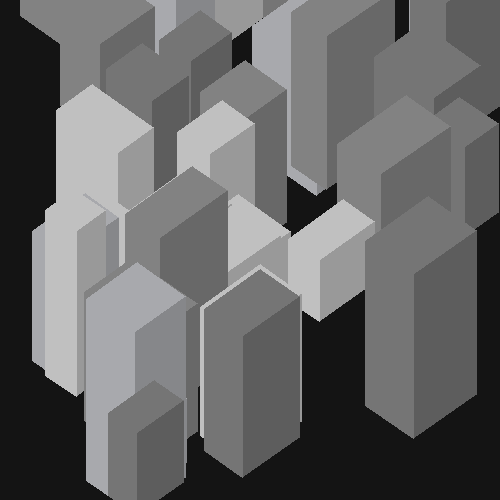
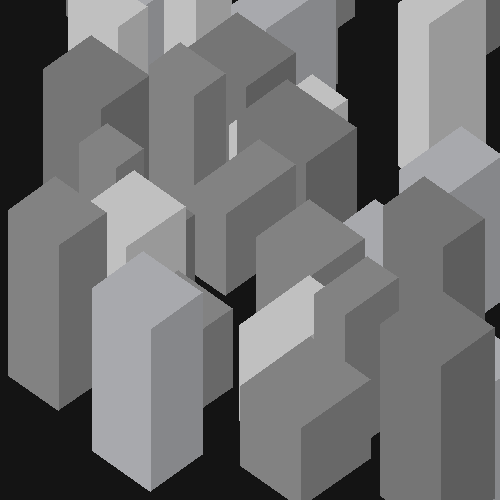
added #6

diff --git a/6/6.py b/6/6.py
@@ -1,0 +1,54 @@
+#created for https://genuary.art/ prompt #6: Make a landscape using only primitive shapes.
+import pygame
+from PIL import Image, ImageColor
+
+pygame.init()
+img_size = (500,500)
+wallpaper_dim = (2532, 2532)
+screen = pygame.display.set_mode((img_size[0], img_size[1]))
+new_pixel_size = 5
+spacing = 1.2
+pallete_f_name = "comfy52.hex" #https://lospec.com/palette-list/comfy52
+input_f_name = "6_input(3).png"
+pallete = []
+
+
+with open(pallete_f_name, "r") as file:
+    for line in file:
+        pallete.append(ImageColor.getcolor(f"#{line[:6]}","RGB"))
+
+def color_distance(a,b):
+    return abs(a[0]-b[0])+abs(a[1]-b[1])+abs(a[2]-b[2]) 
+
+def color_shape(color):
+    r = color[0]
+    g = color[1]
+    b = color[2]
+    return "circle" if b > r and b > g else "triangle" if g > r and g > b else "square"
+
+input = Image.open(input_f_name)
+for i,p in enumerate(input.getdata()):
+    x = i % img_size[0]
+    y = (i - x)//img_size[1]
+
+    if x % (new_pixel_size*spacing) == 0 and y % (new_pixel_size*spacing) == 0:
+        closest_color = pallete[0]
+        smallest_distance = color_distance(p,closest_color)
+        for color in pallete:
+            curr_distance = color_distance(p, color)
+            if curr_distance < smallest_distance:
+                closest_color = color
+                smallest_distance = curr_distance
+        shape = color_shape(closest_color)
+        match shape:
+            case "circle":
+                pygame.draw.circle(screen, closest_color, (x,y), new_pixel_size//2)
+            case "square":
+                pygame.draw.rect(screen, closest_color, pygame.Rect(x-new_pixel_size//2, y-new_pixel_size//2, new_pixel_size,new_pixel_size), new_pixel_size)
+            case "triangle":
+                pygame.draw.polygon(screen, closest_color, [(x, y - new_pixel_size//2), (x + new_pixel_size//2,y + new_pixel_size//2),(x - new_pixel_size//2,y + new_pixel_size//2)])
+            case _:
+                pass
+
+pygame.image.save(screen, "6_output.png")
+pygame.quit()
